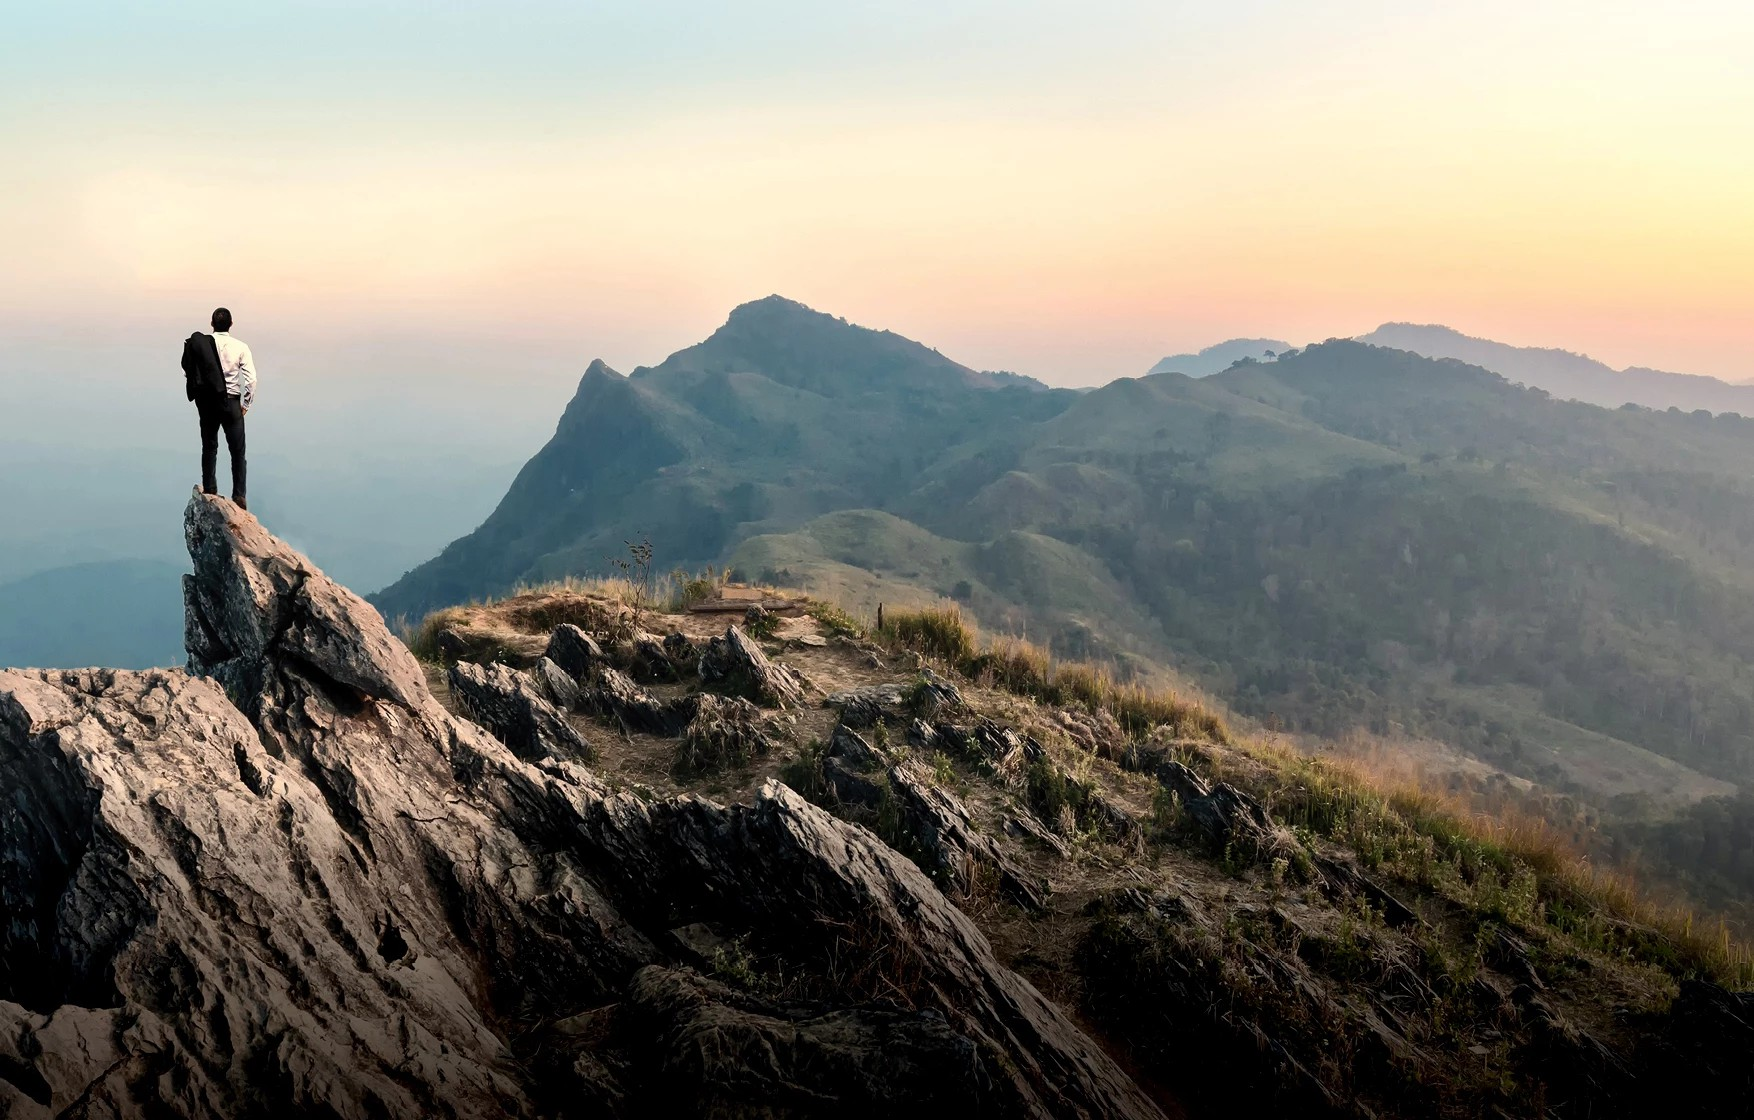
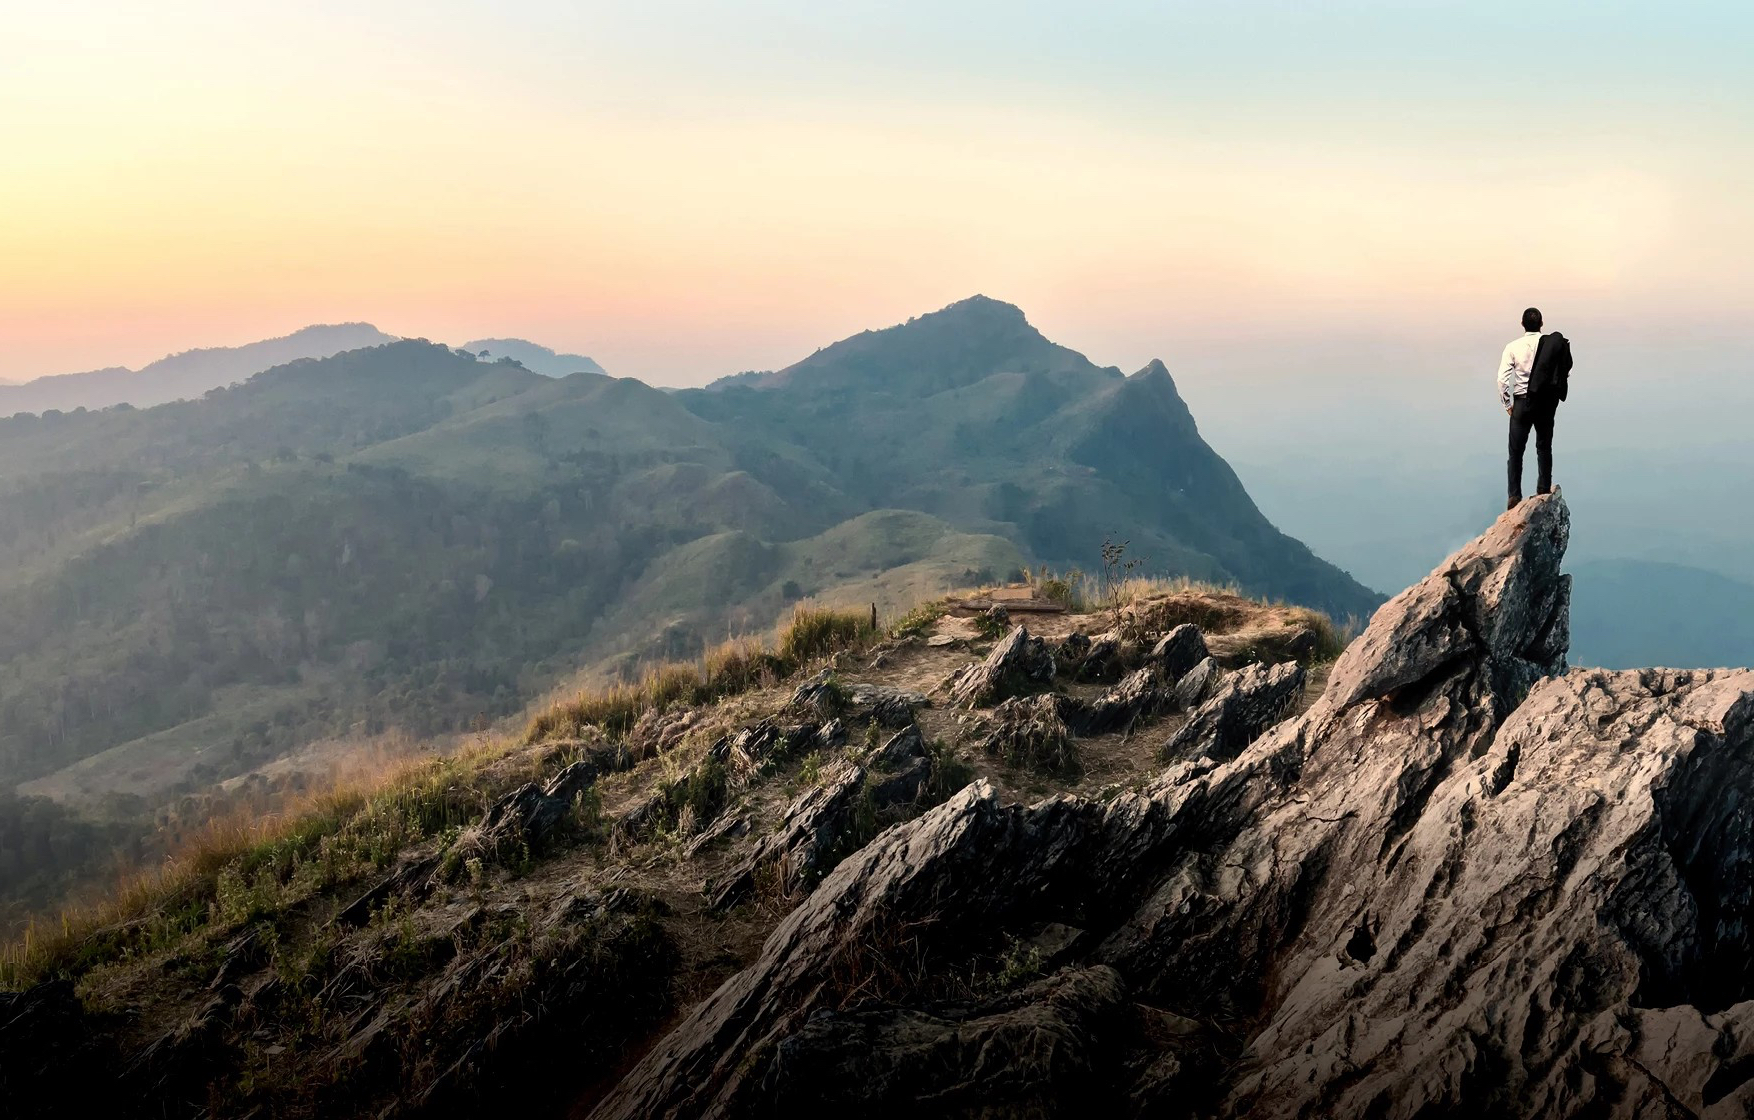
Achtergrond aanmelden/registreren gedraaid

diff --git a/src/KairosWeb_Groep6/wwwroot/css/site.css b/src/KairosWeb_Groep6/wwwroot/css/site.css
@@ -2,6 +2,8 @@
     padding-top: 50px;
     padding-bottom: 20px;
     background-image: url(../images/dashboard_bg.jpg);
+    -ms-background-size: cover;
+    background-size: cover;
     -ms-background-attachment: fixed;
     background-attachment: fixed;
     -ms-background-position: top left;
